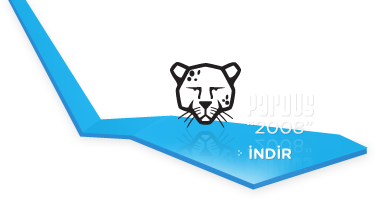
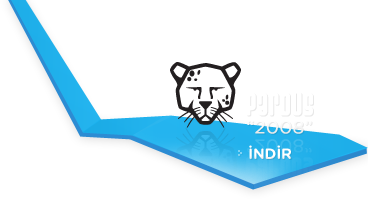
fix horizontal scrollbar in 1024x768 problem

diff --git a/media/css/new/base.css b/media/css/new/base.css
@@ -24,11 +24,11 @@ div#header #logo {
     position: relative;
     top: 35px;
     left: 14px;
+    float: left;
 }
 div#header #header_img {
     position: relative;
-    top: -43px;
-    left: 620px;
+    left: 307px;
 }
 div#page {
     margin-left: auto;
